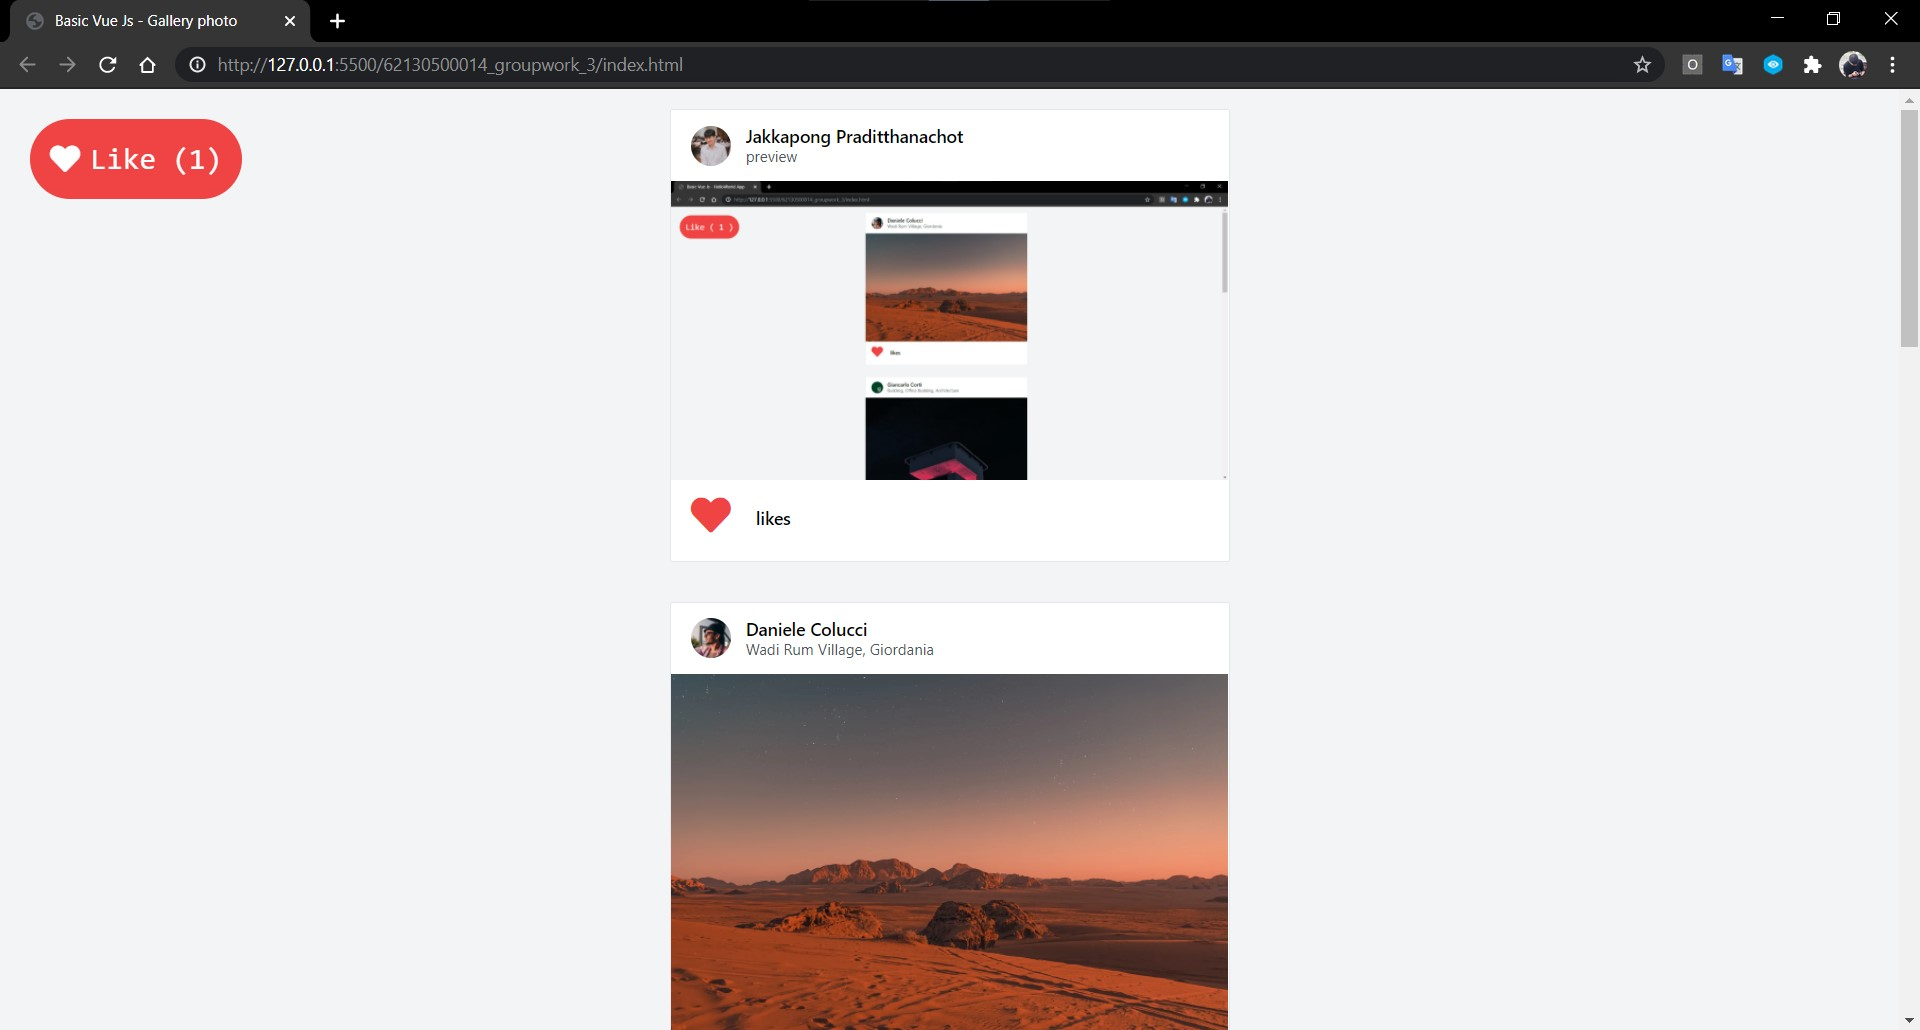
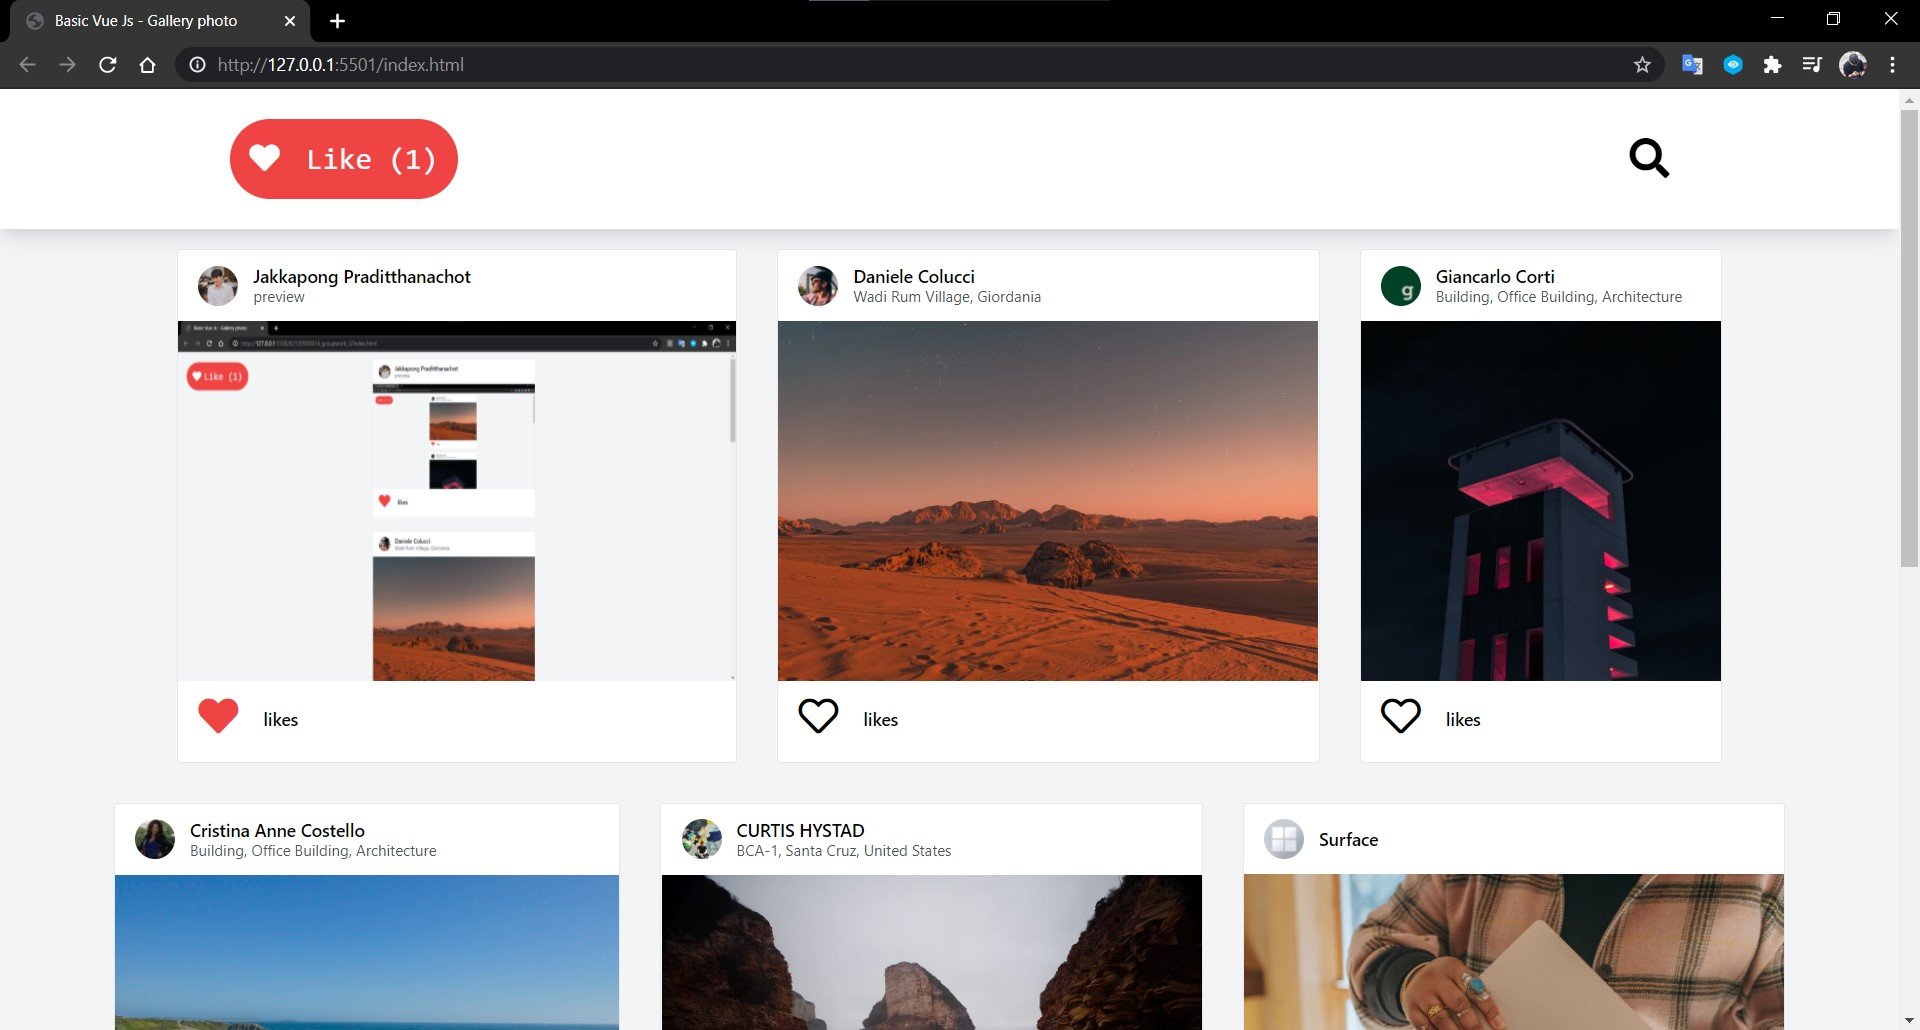
[update] add serch, fix like, add view full img

diff --git a/62130500014_groupwork_4/index.html b/62130500014_groupwork_4/index.html
@@ -25,59 +25,71 @@
 
 <body id="app" class="bg-gray-100">
 
-    <header class="w-full bg-white p-6 shadow-lg">
+    <header class="bg-white p-6 shadow-lg fixed w-full">
         <div class="flex relative max-w-6xl mx-auto">
             <div class="font-mono text-2xl bg-red-500 p-4 rounded-full text-white">
                 <i class="fas fa-heart pr-2"></i> Like ({{ countLike }})
             </div>
             <div class="self-center ml-auto">
-                <span :class="{'hidden' : form.search }" class=""><i class="fas fa-2x fa-search"
-                        @click="search"></i></span>
-                <span :class="{'hidden' : !form.search}" class="">
-                    <input class="px-2 border-2 border-black mx-2 " placeholder="Please enter text for searching photos"
-                        v-model="form.text">
-                    <button class="mx-2 rouned rounded-full text-white px-4 py-2 bg-blue-500"
-                        @click="search">Cancle</button>
+                <span :class="{'hidden' : search}">
+                    <i class="fas fa-2x fa-search cursor-pointer" @click="searching"></i></span>
+                <span :class="{'hidden' : !search}">
+                    <input class="p-1 pl-6 border-2 rouned rounded-2xl border-gray-700 mx-2 w-80 focus:outline-none"
+                        placeholder="Please enter text for searching" v-model="text ">
+                    <button
+                        class="mx-2 rouned rounded-3xl text-white px-4 py-2 bg-blue-500 hover:bg-blue-700 focus:outline-none"
+                        @click="searching()+cancel() ">Cancel</button>
                 </span>
             </div>
         </div>
     </header>
 
+    <div class="flex justify-center pt-28 "></div>
 
-    <div class="p-4 " v-for="(task,index) in searchlist" v-if="searchlist.length !== 0 ">
-        <div class="bg-white border rounded-sm max-w-md">
-            <div class="flex items-center px-4 py-3 ">
-                <img class="h-8 w-8 rounded-full" v-bind:src="task.profile" />
-                <div class="ml-3 ">
-                    <span class="text-sm font-semibold antialiased block leading-tight">{{task.userName}}</span>
-                    <span class="text-gray-600 text-xs block">{{task.description}}</span>
+    <!-- show image -->
+    <div v-show="hasView " class="fixed flex justify-center h-screen w-screen top-0 bg-black ">
+        <div class="h-screen m-6 ">
+            <i class="far fa-2x fa-times-circle text-white flex-row-reverse cursor-pointer " @click="close "></i>
+            <img :src="viewImg " class="h-5/6 m-6 border border-4 border-white ">
+        </div>
+    </div>
+
+    <!-- list task -->
+    <div class=" flex flex-wrap justify-center " v-if="searchlist.length !==0 ">
+        <div class="flex p-4 " v-for="task in searchlist ">
+            <div class="bg-white border rounded-sm max-w-md ">
+                <div class="flex items-center px-4 py-3 ">
+                    <img class="h-8 w-8 rounded-full " v-bind:src="task.profile " />
+                    <div class="ml-3 ">
+                        <span class="text-sm font-semibold antialiased block leading-tight ">{{task.userName}}</span>
+                        <span class="text-gray-600 text-xs block ">{{task.description}}</span>
+                    </div>
                 </div>
-            </div>
-            <img v-bind:src="task.img" @dblclick="liked(index)" />
-            <div class="flex items-center justify-between mx-4 mt-3 mb-2 ">
-                <div class="flex gap-5">
-                    <i v-show="!task.heart" class="far fa-2x fa-heart text-black hover:text-red-600 transition duration-500" @click="liked(index)"></i>
-                    <i v-show="task.heart" class="fas fa-2x fa-heart text-red-500 transition duration-500" @click="liked(index)"></i>
-                    <div class="font-semibold text-sm mt-2 mb-4">likes</div>
+                <img v-bind:src="task.img " @click="toggleView(task) " class="md:h-72 " />
+                <div class="flex items-center justify-between mx-4 mt-3 mb-2 ">
+                    <div class="flex gap-5 ">
+                        <i v-show="!task.heart " class="far fa-2x fa-heart text-black hover:text-red-600 transition duration-500 " @click="liked(task) "></i>
+                        <i v-show="task.heart " class="fas fa-2x fa-heart text-red-500 transition duration-500 " @click="liked(task) "></i>
+                        <div class="font-semibold text-sm mt-2 mb-4 ">likes</div>
+                    </div>
                 </div>
             </div>
         </div>
-    </div>
-    <div v-else class="mt-10 bg-white shadow-lg rounded w-full mx-auto px-auto py-5 flex justify-center">
-        <h2 class="mb-2 text-2xl font-bold text-gray-800">No Photos.</h2>
+
     </div>
 
-    <div class="flex flex-wrap ">
-        <div>test1</div>
-        <div>test1</div>
-        <div>test1</div>
-        <div>test1</div>
+    <!-- button  -->
+    <div v-else class="mt-10 bg-white shadow-lg rounded w-full mx-auto px-auto py-5 flex justify-center ">
+        <h2 class="mb-2 text-2xl font-bold text-gray-800 ">No Photos</h2>
     </div>
 
-    <a href="https://unsplash.com/" class="flex justify-center p-4 text-gray-600 text-xs">photo by Unsplash</a>
+
+
+
+    <a href="https://unsplash.com/ " class="flex justify-center p-4 text-gray-600 text-xs ">photo by Unsplash</a>
 
     <!-- my main.js -->
-    <script src="main.js"></script>
+    <script src="main.js "></script>
 </body>
 
 </html>

diff --git a/62130500014_groupwork_4/main.js b/62130500014_groupwork_4/main.js
@@ -2,13 +2,15 @@ const app = {
     data() {
         return {
             tasks: [{
+                    no: 0,
                     profile: 'images/profile.jpg',
                     userName: 'Jakkapong Praditthanachot',
                     description: 'preview',
                     img: 'images/preview.jpg',
                     heart: false,
-                }, {
-
+                },
+                {
+                    no: 1,
                     profile: 'https://images.unsplash.com/profile-1599498849251-35d2045d15d5image?dpr=1&auto=format&fit=crop&w=150&h=150&q=60&crop=faces&bg=fff',
                     userName: 'Daniele Colucci',
                     description: 'Wadi Rum Village, Giordania',
@@ -16,6 +18,7 @@ const app = {
                     heart: false,
                 },
                 {
+                    no: 2,
                     profile: 'https://images.unsplash.com/profile-1568157934859-378fb07773c8image?dpr=1&auto=format&fit=crop&w=150&h=150&q=60&crop=faces&bg=fff',
                     userName: 'Giancarlo Corti',
                     description: 'Building, Office Building, Architecture ',
@@ -23,6 +26,7 @@ const app = {
                     heart: false,
                 },
                 {
+                    no: 3,
                     profile: 'https://images.unsplash.com/profile-1536187323066-07c679d77285?dpr=1&auto=format&fit=crop&w=150&h=150&q=60&crop=faces&bg=fff',
                     userName: 'Cristina Anne Costello',
                     description: 'Building, Office Building, Architecture ',
@@ -30,6 +34,7 @@ const app = {
                     heart: false,
                 },
                 {
+                    no: 4,
                     profile: 'https://images.unsplash.com/profile-1610926087590-3403d9b90281image?dpr=1&auto=format&fit=crop&w=150&h=150&q=60&crop=faces&bg=fff',
                     userName: 'CURTIS HYSTAD',
                     description: 'BCA-1, Santa Cruz, United States',
@@ -37,26 +42,55 @@ const app = {
                     heart: false,
                 },
                 {
+                    no: 5,
                     profile: 'https://images.unsplash.com/profile-1587651800415-20eed2ec0209image?dpr=1&auto=format&fit=crop&w=150&h=150&q=60&crop=faces&bg=fff',
                     userName: 'Surface',
                     description: '',
                     img: 'https://images.unsplash.com/photo-1612832164065-fc35ded2a291?ixid=MXwxMjA3fDF8MHxwaG90by1wYWdlfHx8fGVufDB8fHw%3D&ixlib=rb-1.2.1&auto=format&fit=crop&w=1050&q=80',
                     heart: false,
-                }
+                },
+                {
+                    no: 6,
+                    profile: 'https://images.unsplash.com/profile-1604553045904-1d88269d4dafimage?dpr=1&auto=format&fit=crop&w=150&h=150&q=60&crop=faces&bg=fff',
+                    userName: 'Joshua Hoehne',
+                    description: 'Tulip Rain',
+                    img: 'https://images.unsplash.com/photo-1525127752301-99b0b6379811?ixid=MXwxMjA3fDB8MHxwaG90by1wYWdlfHx8fGVufDB8fHw%3D&ixlib=rb-1.2.1&auto=format&fit=crop&w=1050&q=80',
+                    heart: false,
+                },
+                {
+                    no: 7,
+                    profile: 'https://images.unsplash.com/profile-1474495609232-c2cc56a491e9?dpr=1&auto=format&fit=crop&w=150&h=150&q=60&crop=faces&bg=fff',
+                    userName: 'Davide Cantelli',
+                    description: 'Iceland',
+                    img: 'https://images.unsplash.com/photo-1475319122043-5ca9eeceefaf?ixid=MXwxMjA3fDB8MHxwaG90by1wYWdlfHx8fGVufDB8fHw%3D&ixlib=rb-1.2.1&auto=format&fit=crop&w=1050&q=80',
+                    heart: false,
+                },
             ],
-            form: {
-                text: "",
-                search: false,
-            },
+            text: "",
+            search: false,
+            hasView: false,
+            viewImg: '',
+            test: false
         }
     },
     methods: {
-        liked(index) {
-            this.tasks[index].heart = !this.tasks[index].heart;
+        liked(task) {
+            this.tasks[task.no].heart = !this.tasks[task.no].heart;
+            console.log(task.no)
         },
-        search() {
-            this.form.search = !this.form.search;
+        toggleView(task) {
+            this.viewImg = this.tasks[task.no].img;
+            this.hasView = true;
         },
+        searching() {
+            this.search = !this.search;
+        },
+        close() {
+            this.hasView = false;
+        },
+        cancel() {
+            this.text = '';
+        }
     },
     computed: {
         countLike() {
@@ -64,11 +98,10 @@ const app = {
         },
         searchlist() {
             return this.tasks.filter((member) => {
-                return member.description.toLowerCase().includes(this.form.text.toLowerCase()) +
-                    member.userName.toLowerCase().includes(this.form.text.toLowerCase())
+                return member.description.toLowerCase().includes(this.text.toLowerCase()) +
+                    member.userName.toLowerCase().includes(this.text.toLowerCase())
             });
-        }
+        },
     }
-
 }
 Vue.createApp(app).mount('#app')
